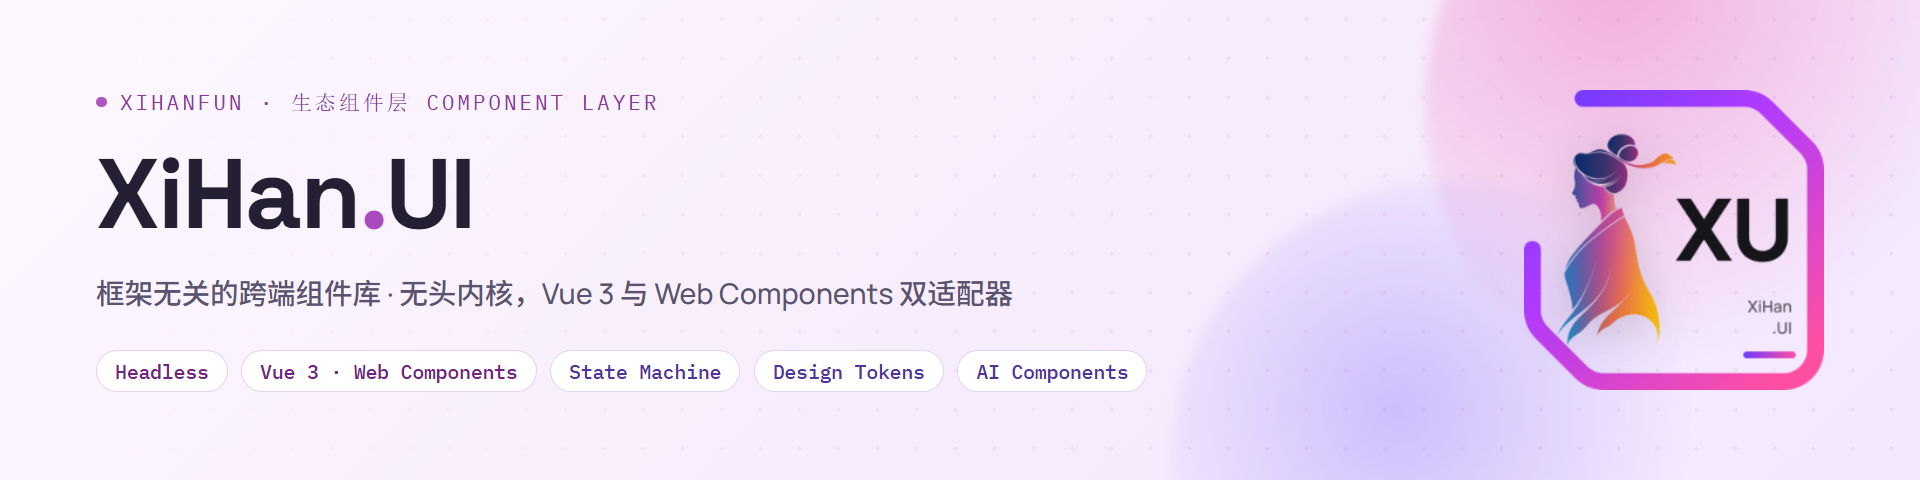
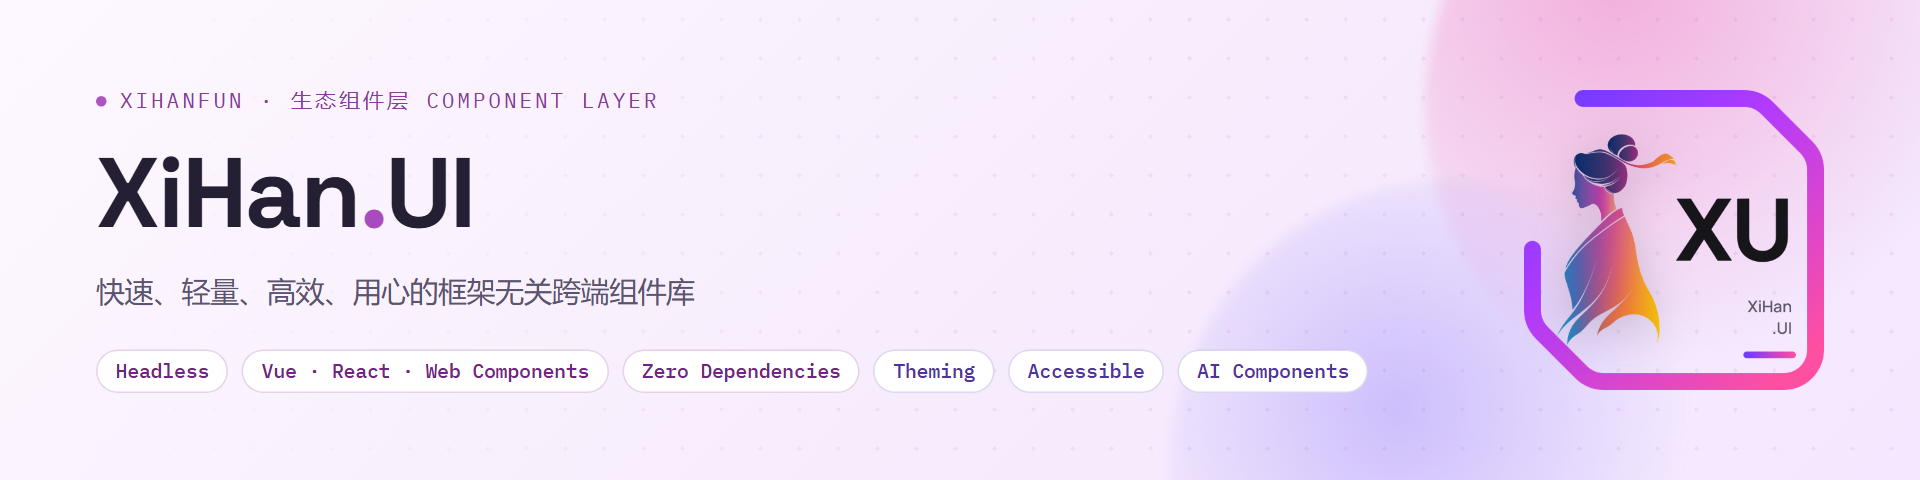
docs: 生态横幅三张统一为同一版式与定位句，能力标签按各仓现状更新，不写组件数与模块数，重新截图

diff --git a/other/XiHanFun-Banner.dc.html b/other/XiHanFun-Banner.dc.html
@@ -13,107 +13,145 @@
   <link href="https://fonts.googleapis.com/css2?family=Space+Grotesk:wght@500;600;700&amp;family=Manrope:wght@400;500;600;700&amp;family=IBM+Plex+Mono:wght@400;500&amp;display=swap" rel="stylesheet">
   <style>
     * { box-sizing: border-box; }
-    body { margin: 0; background: #eceaf3; font-family:'Manrope',sans-serif; padding:56px; display:flex; flex-direction:column; align-items:center; gap:44px; }
+    body { margin: 0; background: #eceaf3; font-family: 'Manrope', 'Microsoft YaHei UI', 'PingFang SC', 'Noto Sans SC', sans-serif; padding: 56px; display: flex; flex-direction: column; align-items: center; gap: 44px; }
     a { color: oklch(0.55 0.18 295); }
     a:hover { color: oklch(0.48 0.19 295); }
+
+    /* 三张横幅共用一套版式，配色由各自的 data-banner 变量给出 */
+    .banner { width: 1280px; height: 320px; position: relative; overflow: hidden; background: var(--bg); flex-shrink: 0; }
+    .banner-blob { position: absolute; border-radius: 50%; filter: blur(4px); }
+    .banner-blob-a { width: 420px; height: 420px; right: -90px; top: -140px; background: radial-gradient(circle at 30% 30%, var(--blob-a), transparent 62%); }
+    .banner-blob-b { width: 380px; height: 380px; right: 120px; bottom: -180px; background: radial-gradient(circle at 40% 40%, var(--blob-b), transparent 60%); }
+    .banner-dots { position: absolute; inset: 0; background-image: radial-gradient(var(--dots) 1.4px, transparent 1.4px); background-size: 26px 26px; mask-image: linear-gradient(90deg, transparent, #000 55%); }
+    .banner-body { position: relative; height: 100%; display: flex; align-items: center; padding: 0 64px; gap: 52px; }
+    .banner-text { flex: 1; min-width: 0; display: flex; flex-direction: column; gap: 20px; }
+    .banner-eyebrow { display: flex; align-items: center; gap: 9px; font-family: 'IBM Plex Mono', 'Microsoft YaHei UI', 'PingFang SC', monospace; font-size: 14px; letter-spacing: 0.14em; color: var(--eyebrow); text-transform: uppercase; }
+    .banner-eyebrow::before { content: ''; width: 7px; height: 7px; border-radius: 50%; background: var(--eyebrow-dot); }
+    .banner-title { font-family: 'Space Grotesk', sans-serif; font-weight: 700; font-size: 66px; line-height: 0.98; color: #241f33; letter-spacing: -0.02em; }
+    .banner-title span { color: var(--accent); }
+    .banner-tagline { font-size: 19px; color: var(--tagline); line-height: 1.45; font-weight: 500; }
+    .banner-chips { display: flex; flex-wrap: wrap; gap: 9px; margin-top: 4px; }
+    .banner-chip { font-family: 'IBM Plex Mono', monospace; font-size: 13px; font-weight: 500; color: var(--chip-a); background: #fff; border: 1px solid var(--chip-a-line); padding: 5px 12px; border-radius: 999px; white-space: nowrap; }
+    .banner-chip-alt { color: var(--chip-b); border-color: var(--chip-b-line); }
+    .banner-logo { flex-shrink: 0; width: 200px; height: 200px; }
+    .banner-logo img { width: 100%; height: 100%; object-fit: contain; display: block; }
+
+    .banner[data-banner="framework"] {
+      --bg: linear-gradient(135deg, #faf8ff 0%, #eef0ff 55%, #e9ebff 100%);
+      --blob-a: oklch(0.72 0.15 255 / 0.55);
+      --blob-b: oklch(0.70 0.16 300 / 0.5);
+      --dots: oklch(0.58 0.16 265 / 0.10);
+      --eyebrow: oklch(0.48 0.16 265);
+      --eyebrow-dot: oklch(0.58 0.17 265);
+      --accent: oklch(0.56 0.18 265);
+      --tagline: #54536e;
+      --chip-a: oklch(0.42 0.16 265);
+      --chip-a-line: oklch(0.60 0.14 265 / 0.28);
+      --chip-b: oklch(0.42 0.16 300);
+      --chip-b-line: oklch(0.60 0.14 300 / 0.28);
+    }
+    .banner[data-banner="ui"] {
+      --bg: linear-gradient(135deg, #fdf8ff 0%, #f7ecfc 55%, #f3e8ff 100%);
+      --blob-a: oklch(0.74 0.16 345 / 0.55);
+      --blob-b: oklch(0.72 0.15 290 / 0.5);
+      --dots: oklch(0.60 0.17 320 / 0.10);
+      --eyebrow: oklch(0.50 0.17 320);
+      --eyebrow-dot: oklch(0.60 0.18 320);
+      --accent: oklch(0.58 0.19 320);
+      --tagline: #5a5470;
+      --chip-a: oklch(0.42 0.16 320);
+      --chip-a-line: oklch(0.60 0.14 320 / 0.28);
+      --chip-b: oklch(0.42 0.16 290);
+      --chip-b-line: oklch(0.60 0.14 290 / 0.28);
+    }
+    .banner[data-banner="basicapp"] {
+      --bg: linear-gradient(135deg, #fffaf6 0%, #fff0e8 55%, #ffe9e2 100%);
+      --blob-a: oklch(0.76 0.15 45 / 0.6);
+      --blob-b: oklch(0.74 0.15 15 / 0.5);
+      --dots: oklch(0.62 0.15 40 / 0.12);
+      --eyebrow: oklch(0.52 0.15 40);
+      --eyebrow-dot: oklch(0.64 0.17 40);
+      --accent: oklch(0.62 0.18 40);
+      --tagline: #5a5470;
+      --chip-a: oklch(0.45 0.15 40);
+      --chip-a-line: oklch(0.64 0.13 40 / 0.3);
+      --chip-b: oklch(0.45 0.15 20);
+      --chip-b-line: oklch(0.64 0.13 20 / 0.3);
+    }
   </style>
 </helmet>
 
 <!-- =============== BANNER 1 · XiHan.Framework =============== -->
-<div data-banner="framework" style="width:1280px; height:320px; position:relative; overflow:hidden; background:linear-gradient(135deg, #faf8ff 0%, #eef0ff 55%, #e9ebff 100%); flex-shrink:0;">
-  <div style="position:absolute; width:420px; height:420px; right:-90px; top:-140px; border-radius:50%; background:radial-gradient(circle at 30% 30%, oklch(0.72 0.15 255 / 0.55), transparent 62%); filter:blur(4px);"></div>
-  <div style="position:absolute; width:380px; height:380px; right:120px; bottom:-180px; border-radius:50%; background:radial-gradient(circle at 40% 40%, oklch(0.70 0.16 300 / 0.5), transparent 60%); filter:blur(4px);"></div>
-  <div style="position:absolute; inset:0; background-image:radial-gradient(oklch(0.58 0.16 265 / 0.10) 1.4px, transparent 1.4px); background-size:26px 26px; mask-image:linear-gradient(90deg, transparent, #000 55%);"></div>
-
-  <div style="position:relative; height:100%; display:flex; align-items:center; padding:0 64px; gap:52px;">
-    <div style="flex:1; display:flex; flex-direction:column; gap:20px;">
-      <div style="display:flex; align-items:center; gap:9px; font-family:'IBM Plex Mono',monospace; font-size:14px; letter-spacing:0.14em; color:oklch(0.48 0.16 265); text-transform:uppercase;">
-        <span style="width:7px; height:7px; border-radius:50%; background:oklch(0.58 0.17 265);"></span>
-        XiHanFun · 生态后端基座 Backend Foundation
-      </div>
-      <div style="font-family:'Space Grotesk',sans-serif; font-weight:700; font-size:66px; line-height:0.98; color:#241f33; letter-spacing:-0.02em;">
-        XiHan<span style="color:oklch(0.56 0.18 265);">.</span>Framework
-      </div>
-      <div style="font-size:19px; color:#54536e; max-width:700px; line-height:1.45; font-weight:500; width:632px;">
-快速、轻量、高效、用心的 .NET 现代模块化开发框架
-      </div>
-      <div style="display:flex; flex-wrap:wrap; gap:9px; margin-top:4px;">
-        <span style="font-family:'IBM Plex Mono',monospace; font-size:13px; font-weight:500; color:oklch(0.42 0.16 265); background:#fff; border:1px solid oklch(0.60 0.14 265 / 0.28); padding:5px 12px; border-radius:999px; white-space:nowrap;">.NET 10</span>
-        <span style="font-family:'IBM Plex Mono',monospace; font-size:13px; font-weight:500; color:oklch(0.42 0.16 265); background:#fff; border:1px solid oklch(0.60 0.14 265 / 0.28); padding:5px 12px; border-radius:999px; white-space:nowrap;">Modular</span>
-        <span style="font-family:'IBM Plex Mono',monospace; font-size:13px; font-weight:500; color:oklch(0.42 0.16 300); background:#fff; border:1px solid oklch(0.60 0.14 300 / 0.28); padding:5px 12px; border-radius:999px; white-space:nowrap;">Dynamic API</span>
-        <span style="font-family:'IBM Plex Mono',monospace; font-size:13px; font-weight:500; color:oklch(0.42 0.16 300); background:#fff; border:1px solid oklch(0.60 0.14 300 / 0.28); padding:5px 12px; border-radius:999px; white-space:nowrap;">DDD</span>
-        <span style="font-family:'IBM Plex Mono',monospace; font-size:13px; font-weight:500; color:oklch(0.42 0.16 300); background:#fff; border:1px solid oklch(0.60 0.14 300 / 0.28); padding:5px 12px; border-radius:999px; white-space:nowrap;">.NET Native First</span>
+<div class="banner" data-banner="framework">
+  <div class="banner-blob banner-blob-a"></div>
+  <div class="banner-blob banner-blob-b"></div>
+  <div class="banner-dots"></div>
+  <div class="banner-body">
+    <div class="banner-text">
+      <div class="banner-eyebrow">XiHanFun · 生态后端基座 Backend Foundation</div>
+      <div class="banner-title">XiHan<span>.</span>Framework</div>
+      <div class="banner-tagline">快速、轻量、高效、用心的 .NET 现代模块化开发框架</div>
+      <div class="banner-chips">
+        <span class="banner-chip">.NET Native First</span>
+        <span class="banner-chip">Modular</span>
+        <span class="banner-chip">Dynamic API</span>
+        <span class="banner-chip banner-chip-alt">Multi-Tenancy</span>
+        <span class="banner-chip banner-chip-alt">Workflow</span>
+        <span class="banner-chip banner-chip-alt">AI · MCP</span>
       </div>
     </div>
-
-    <div style="flex-shrink:0; width:200px; height:200px;">
-      <img src="logo/light/XiHan.Framework-256.png" alt="XiHan.Framework logo" style="width:100%; height:100%; object-fit:contain; display:block;">
+    <div class="banner-logo">
+      <img src="logo/light/XiHan.Framework-512.png" alt="XiHan.Framework logo">
     </div>
   </div>
 </div>
 
-
 <!-- =============== BANNER 2 · XiHan.UI =============== -->
-<div data-banner="ui" style="width:1280px; height:320px; position:relative; overflow:hidden; background:linear-gradient(135deg, #fdf8ff 0%, #f7ecfc 55%, #f3e8ff 100%); flex-shrink:0;">
-  <div style="position:absolute; width:420px; height:420px; right:-90px; top:-140px; border-radius:50%; background:radial-gradient(circle at 30% 30%, oklch(0.74 0.16 345 / 0.55), transparent 62%); filter:blur(4px);"></div>
-  <div style="position:absolute; width:380px; height:380px; right:120px; bottom:-180px; border-radius:50%; background:radial-gradient(circle at 40% 40%, oklch(0.72 0.15 290 / 0.5), transparent 60%); filter:blur(4px);"></div>
-  <div style="position:absolute; inset:0; background-image:radial-gradient(oklch(0.60 0.17 320 / 0.10) 1.4px, transparent 1.4px); background-size:26px 26px; mask-image:linear-gradient(90deg, transparent, #000 55%);"></div>
-
-  <div style="position:relative; height:100%; display:flex; align-items:center; padding:0 64px; gap:52px;">
-    <div style="flex:1; display:flex; flex-direction:column; gap:20px;">
-      <div style="display:flex; align-items:center; gap:9px; font-family:'IBM Plex Mono',monospace; font-size:14px; letter-spacing:0.14em; color:oklch(0.50 0.17 320); text-transform:uppercase;">
-        <span style="width:7px; height:7px; border-radius:50%; background:oklch(0.60 0.18 320);"></span>
-        XiHanFun · 生态组件层 Component Layer
-      </div>
-      <div style="font-family:'Space Grotesk',sans-serif; font-weight:700; font-size:66px; line-height:0.98; color:#241f33; letter-spacing:-0.02em;">
-        XiHan<span style="color:oklch(0.58 0.19 320);">.</span>UI
-      </div>
-      <div style="font-size:19px; color:#5a5470; max-width:700px; line-height:1.45; font-weight:500;">
-框架无关的跨端组件库 · 无头内核，Vue 3 与 Web Components 双适配器
-      </div>
-      <div style="display:flex; flex-wrap:wrap; gap:9px; margin-top:4px;">
-        <span style="font-family:'IBM Plex Mono',monospace; font-size:13px; font-weight:500; color:oklch(0.42 0.16 320); background:#fff; border:1px solid oklch(0.60 0.14 320 / 0.28); padding:5px 12px; border-radius:999px; white-space:nowrap;">Headless</span>
-        <span style="font-family:'IBM Plex Mono',monospace; font-size:13px; font-weight:500; color:oklch(0.42 0.16 320); background:#fff; border:1px solid oklch(0.60 0.14 320 / 0.28); padding:5px 12px; border-radius:999px; white-space:nowrap;">Vue 3 · Web Components</span>
-        <span style="font-family:'IBM Plex Mono',monospace; font-size:13px; font-weight:500; color:oklch(0.42 0.16 290); background:#fff; border:1px solid oklch(0.60 0.14 290 / 0.28); padding:5px 12px; border-radius:999px; white-space:nowrap;">State Machine</span>
-        <span style="font-family:'IBM Plex Mono',monospace; font-size:13px; font-weight:500; color:oklch(0.42 0.16 290); background:#fff; border:1px solid oklch(0.60 0.14 290 / 0.28); padding:5px 12px; border-radius:999px; white-space:nowrap;">Design Tokens</span>
-        <span style="font-family:'IBM Plex Mono',monospace; font-size:13px; font-weight:500; color:oklch(0.42 0.16 290); background:#fff; border:1px solid oklch(0.60 0.14 290 / 0.28); padding:5px 12px; border-radius:999px; white-space:nowrap;">AI Components</span>
+<div class="banner" data-banner="ui">
+  <div class="banner-blob banner-blob-a"></div>
+  <div class="banner-blob banner-blob-b"></div>
+  <div class="banner-dots"></div>
+  <div class="banner-body">
+    <div class="banner-text">
+      <div class="banner-eyebrow">XiHanFun · 生态组件层 Component Layer</div>
+      <div class="banner-title">XiHan<span>.</span>UI</div>
+      <div class="banner-tagline">快速、轻量、高效、用心的框架无关跨端组件库</div>
+      <div class="banner-chips">
+        <span class="banner-chip">Headless</span>
+        <span class="banner-chip">Vue · React · Web Components</span>
+        <span class="banner-chip">Zero Dependencies</span>
+        <span class="banner-chip banner-chip-alt">Theming</span>
+        <span class="banner-chip banner-chip-alt">Accessible</span>
+        <span class="banner-chip banner-chip-alt">AI Components</span>
       </div>
     </div>
-
-    <div style="flex-shrink:0; width:200px; height:200px;">
-      <img src="logo/light/XiHan.UI-256.png" alt="XiHan.UI logo" style="width:100%; height:100%; object-fit:contain; display:block;">
+    <div class="banner-logo">
+      <img src="logo/light/XiHan.UI-512.png" alt="XiHan.UI logo">
     </div>
   </div>
 </div>
 
 <!-- =============== BANNER 3 · XiHan.BasicApp =============== -->
-<div data-banner="basicapp" style="width:1280px; height:320px; position:relative; overflow:hidden; background:linear-gradient(135deg, #fffaf6 0%, #fff0e8 55%, #ffe9e2 100%); flex-shrink:0;">
-  <div style="position:absolute; width:420px; height:420px; right:-90px; top:-140px; border-radius:50%; background:radial-gradient(circle at 30% 30%, oklch(0.76 0.15 45 / 0.6), transparent 62%); filter:blur(4px);"></div>
-  <div style="position:absolute; width:380px; height:380px; right:120px; bottom:-180px; border-radius:50%; background:radial-gradient(circle at 40% 40%, oklch(0.74 0.15 15 / 0.5), transparent 60%); filter:blur(4px);"></div>
-  <div style="position:absolute; inset:0; background-image:radial-gradient(oklch(0.62 0.15 40 / 0.12) 1.4px, transparent 1.4px); background-size:26px 26px; mask-image:linear-gradient(90deg, transparent, #000 55%);"></div>
-
-  <div style="position:relative; height:100%; display:flex; align-items:center; padding:0 64px; gap:52px;">
-    <div style="flex:1; display:flex; flex-direction:column; gap:20px;">
-      <div style="display:flex; align-items:center; gap:9px; font-family:'IBM Plex Mono',monospace; font-size:14px; letter-spacing:0.14em; color:oklch(0.52 0.15 40); text-transform:uppercase;">
-        <span style="width:7px; height:7px; border-radius:50%; background:oklch(0.64 0.17 40);"></span>
-        XiHanFun · 生态基础应用 Basic Application
-      </div>
-      <div style="font-family:'Space Grotesk',sans-serif; font-weight:700; font-size:66px; line-height:0.98; color:#241f33; letter-spacing:-0.02em;">
-        XiHan<span style="color:oklch(0.62 0.18 40);">.</span>BasicApp
-      </div>
-      <div style="font-size:19px; color:#5a5470; max-width:700px; line-height:1.45; font-weight:500;">基于 .NET + TS 的超高颜值中后台内核 · 开箱即用，面向新型企业级管理场景</div>
-      <div style="display:flex; flex-wrap:wrap; gap:9px; margin-top:4px;">
-        <span style="font-family:'IBM Plex Mono',monospace; font-size:13px; font-weight:500; color:oklch(0.45 0.15 40); background:#fff; border:1px solid oklch(0.64 0.13 40 / 0.3); padding:5px 12px; border-radius:999px; white-space:nowrap;">.NET 10</span>
-        
-        <span style="font-family:'IBM Plex Mono',monospace; font-size:13px; font-weight:500; color:oklch(0.45 0.15 40); background:#fff; border:1px solid oklch(0.64 0.13 40 / 0.3); padding:5px 12px; border-radius:999px; white-space:nowrap;">TypeScript</span>
-        <span style="font-family:'IBM Plex Mono',monospace; font-size:13px; font-weight:500; color:oklch(0.45 0.15 20); background:#fff; border:1px solid oklch(0.64 0.13 20 / 0.3); padding:5px 12px; border-radius:999px; white-space:nowrap;">RBAC · ABAC</span>
-        <span style="font-family:'IBM Plex Mono',monospace; font-size:13px; font-weight:500; color:oklch(0.45 0.15 20); background:#fff; border:1px solid oklch(0.64 0.13 20 / 0.3); padding:5px 12px; border-radius:999px; white-space:nowrap;">Multi-Tenant</span>
-        <span style="font-family:'IBM Plex Mono',monospace; font-size:13px; font-weight:500; color:oklch(0.45 0.15 20); background:#fff; border:1px solid oklch(0.64 0.13 20 / 0.3); padding:5px 12px; border-radius:999px; white-space:nowrap;">AI</span>
+<div class="banner" data-banner="basicapp">
+  <div class="banner-blob banner-blob-a"></div>
+  <div class="banner-blob banner-blob-b"></div>
+  <div class="banner-dots"></div>
+  <div class="banner-body">
+    <div class="banner-text">
+      <div class="banner-eyebrow">XiHanFun · 生态基础应用 Basic Application</div>
+      <div class="banner-title">XiHan<span>.</span>BasicApp</div>
+      <div class="banner-tagline">快速、轻量、高效、用心的 .NET + Vue 通用中后台内核</div>
+      <div class="banner-chips">
+        <span class="banner-chip">Multi-Tenancy</span>
+        <span class="banner-chip">RBAC · ABAC</span>
+        <span class="banner-chip">Audit Trail</span>
+        <span class="banner-chip banner-chip-alt">Code Generation</span>
+        <span class="banner-chip banner-chip-alt">Realtime</span>
+        <span class="banner-chip banner-chip-alt">AI · RAG</span>
       </div>
     </div>
-
-    <div style="flex-shrink:0; width:200px; height:200px;">
-      <img src="logo/light/XiHan.BasicApp-256.png" alt="XiHan.BasicApp logo" style="width:100%; height:100%; object-fit:contain; display:block;">
+    <div class="banner-logo">
+      <img src="logo/light/XiHan.BasicApp-512.png" alt="XiHan.BasicApp logo">
     </div>
   </div>
 </div>
